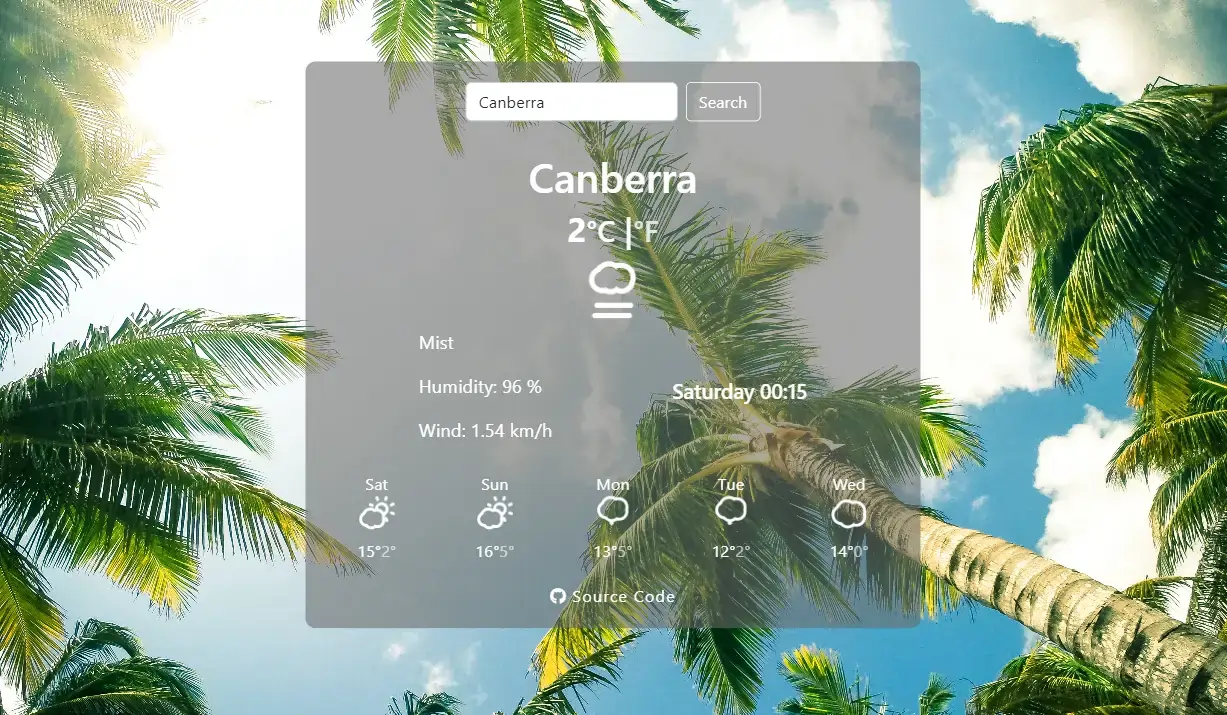
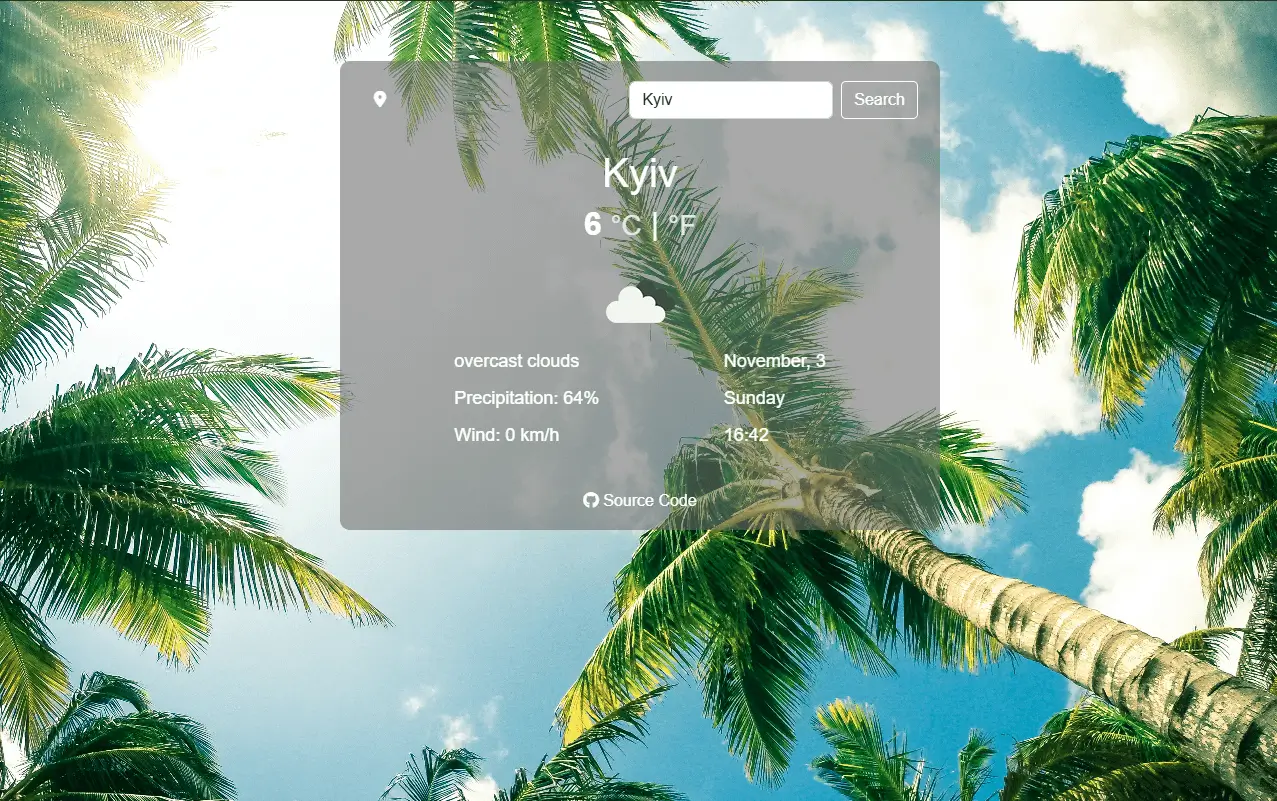
update img

diff --git a/pages/works.tsx b/pages/works.tsx
@@ -1,5 +1,5 @@
 import Image from "next/image";
-import weather from "../public/weather (1).webp";
+import weather from "../public/weather.webp";
 import bee from "../public/beefybee.webp";
 
 const Works = () => {
